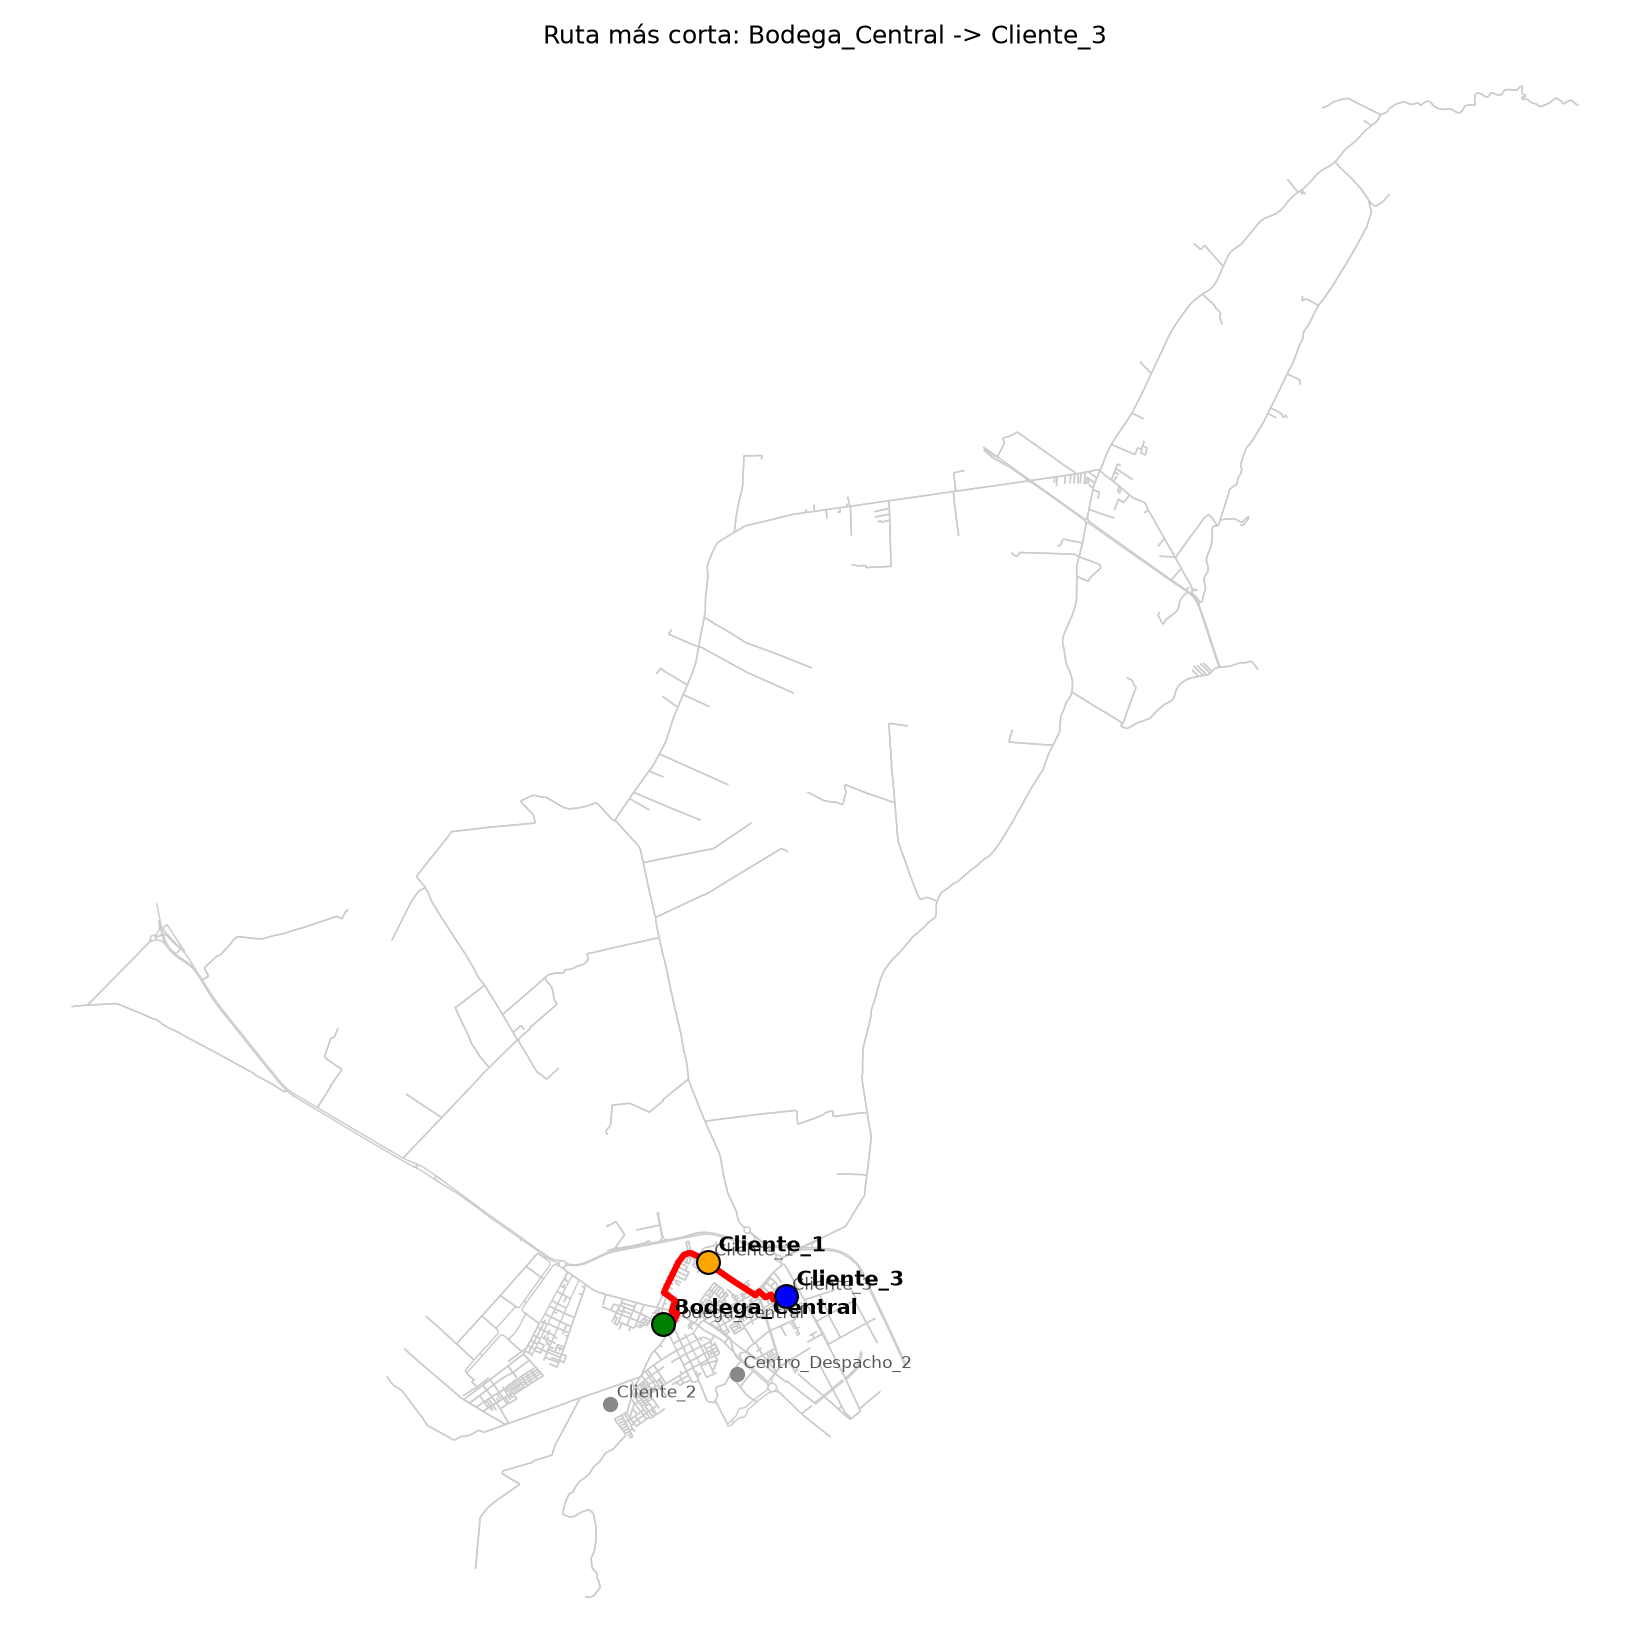
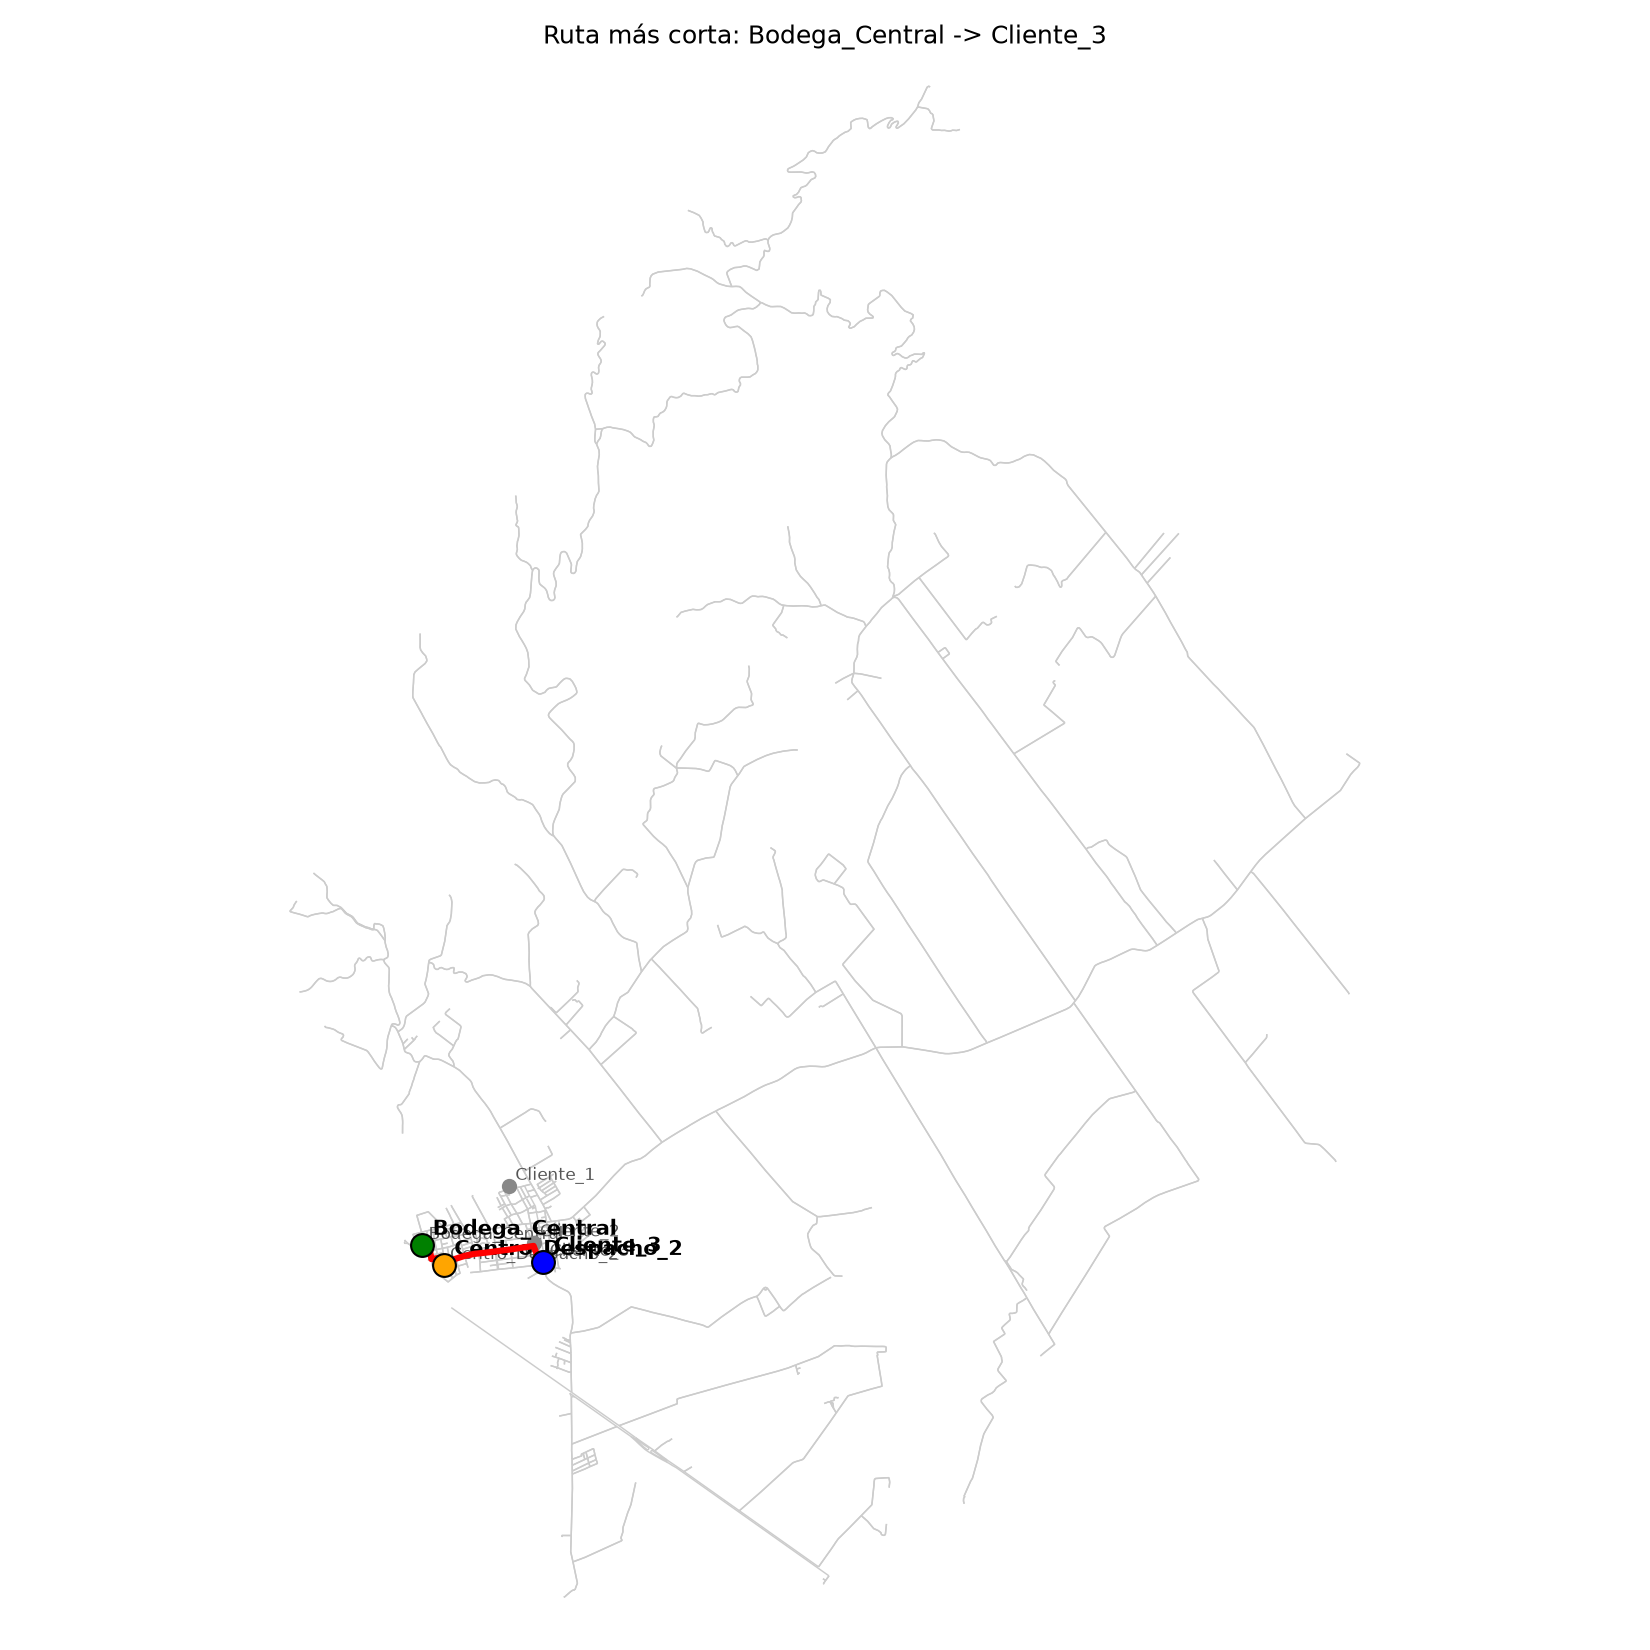
[ADD]AlmostShortestPath Ejercicio

diff --git a/AlmostShortestPath/AlmostShortestPath.java b/AlmostShortestPath/AlmostShortestPath.java
@@ -1,0 +1,159 @@
+package AlmostShortestPath;
+
+import java.util.*;
+import java.io.*;
+
+
+public class AlmostShortestPath {
+
+    // Representa una arista dirigida hacia "destino" con un "peso" determinado
+    static class Arista {
+        int destino;
+        int peso;
+
+        Arista(int destino, int peso) {
+            this.destino = destino;
+            this.peso = peso;
+        }
+    }
+
+    static final long INFINITO = Long.MAX_VALUE / 2;
+
+    public static void main(String[] args) throws IOException {
+        // Se usa StreamTokenizer para lectura rapida por consola (System.in),
+        // ya que puede haber varios casos de prueba y hasta 10^4 aristas por caso.
+        StreamTokenizer entrada = new StreamTokenizer(new BufferedReader(new InputStreamReader(System.in)));
+        StringBuilder salida = new StringBuilder();
+
+        while (true) {
+            entrada.nextToken();
+            int n = (int) entrada.nval;
+            entrada.nextToken();
+            int m = (int) entrada.nval;
+
+            // Fin de la entrada: linea con "0 0"
+            if (n == 0 && m == 0) {
+                break;
+            }
+
+            entrada.nextToken();
+            int s = (int) entrada.nval;
+            entrada.nextToken();
+            int d = (int) entrada.nval;
+
+            // Listas de adyacencia del grafo original y del grafo invertido
+            List<List<Arista>> grafo = new ArrayList<>();
+            List<List<Arista>> grafoInverso = new ArrayList<>();
+            for (int i = 0; i < n; i++) {
+                grafo.add(new ArrayList<>());
+                grafoInverso.add(new ArrayList<>());
+            }
+
+            // Guardamos tambien la lista de aristas por separado, para poder
+            // recorrerlas todas al momento de filtrar
+            int[] origenArista = new int[m];
+            int[] destinoArista = new int[m];
+            int[] pesoArista = new int[m];
+
+            for (int i = 0; i < m; i++) {
+                entrada.nextToken();
+                int u = (int) entrada.nval;
+                entrada.nextToken();
+                int v = (int) entrada.nval;
+                entrada.nextToken();
+                int p = (int) entrada.nval;
+
+                origenArista[i] = u;
+                destinoArista[i] = v;
+                pesoArista[i] = p;
+
+                grafo.get(u).add(new Arista(v, p));
+                grafoInverso.get(v).add(new Arista(u, p));
+            }
+
+            // Paso 1: distancia minima desde S hacia todos los nodos
+            long[] distDesdeS = dijkstra(grafo, s, n);
+
+            // Si D no es alcanzable desde S, ni siquiera existe el camino mas corto,
+            // por lo tanto tampoco puede existir el "almost shortest path"
+            if (distDesdeS[d] >= INFINITO) {
+                salida.append(-1).append("\n");
+                continue;
+            }
+
+            long distanciaMasCorta = distDesdeS[d];
+
+            // Paso 2: distancia minima desde todos los nodos hacia D
+            // (se logra corriendo Dijkstra desde D en el grafo invertido)
+            long[] distHaciaD = dijkstra(grafoInverso, d, n);
+
+            // Paso 3: construir el grafo filtrado, eliminando TODAS las aristas
+            // que pertenezcan a cualquier camino mas corto de S a D
+            List<List<Arista>> grafoFiltrado = new ArrayList<>();
+            for (int i = 0; i < n; i++) {
+                grafoFiltrado.add(new ArrayList<>());
+            }
+
+            for (int i = 0; i < m; i++) {
+                int u = origenArista[i];
+                int v = destinoArista[i];
+                int p = pesoArista[i];
+
+                boolean perteneceACaminoMasCorto =
+                        distDesdeS[u] < INFINITO &&
+                        distHaciaD[v] < INFINITO &&
+                        (distDesdeS[u] + p + distHaciaD[v] == distanciaMasCorta);
+
+                if (!perteneceACaminoMasCorto) {
+                    grafoFiltrado.get(u).add(new Arista(v, p));
+                }
+            }
+
+            // Paso 4: correr Dijkstra una vez mas, sobre el grafo ya filtrado
+            long[] distCasiMasCorto = dijkstra(grafoFiltrado, s, n);
+
+            if (distCasiMasCorto[d] >= INFINITO) {
+                salida.append(-1).append("\n");
+            } else {
+                salida.append(distCasiMasCorto[d]).append("\n");
+            }
+        }
+
+        System.out.print(salida);
+    }
+
+    /**
+     * Dijkstra clasico usando cola de prioridad.
+     * Devuelve un arreglo con la distancia minima desde "origen" hacia cada nodo del grafo.
+     */
+    static long[] dijkstra(List<List<Arista>> grafo, int origen, int n) {
+        long[] dist = new long[n];
+        Arrays.fill(dist, INFINITO);
+        dist[origen] = 0;
+
+        // Cada elemento de la cola es {nodo, distanciaActual}
+        PriorityQueue<long[]> cola = new PriorityQueue<>((a, b) -> Long.compare(a[1], b[1]));
+        cola.add(new long[]{origen, 0L});
+
+        boolean[] visitado = new boolean[n];
+
+        while (!cola.isEmpty()) {
+            long[] actual = cola.poll();
+            int nodo = (int) actual[0];
+
+            if (visitado[nodo]) {
+                continue;
+            }
+            visitado[nodo] = true;
+
+            for (Arista arista : grafo.get(nodo)) {
+                if (!visitado[arista.destino] && dist[nodo] + arista.peso < dist[arista.destino]) {
+                    dist[arista.destino] = dist[nodo] + arista.peso;
+                    cola.add(new long[]{arista.destino, dist[arista.destino]});
+                }
+            }
+        }
+
+        return dist;
+    }
+}

diff --git a/ProyectoFinal/Main.py b/ProyectoFinal/Main.py
@@ -18,7 +18,7 @@ from Dijkstra import Dijkstra
 
 def main():
     # 1) Crear el grafo con la red vial de Madrid, Cundinamarca
-    grafo = Grafo(lugar="Madrid, Cundinamarca, Colombia", network_type="drive")
+    grafo = Grafo(lugar="El Rosal, Cundinamarca, Colombia", network_type="drive")
 
     # 2) ---------------------------------------------------------------
     #    PUNTOS DE DESPACHO
@@ -27,13 +27,14 @@ def main():
     #    nombre inventado); si el nombre es una dirección real, puedes omitir
     #    lat/lon y se geocodifica automáticamente.
     # --------------------------------------------------------------------
-    grafo.agregarNodo("Bodega_Central", lat=4.7331, lon=-74.2666)     # centro de Madrid, Cund.
-    grafo.agregarNodo("Centro_Despacho_2", lat=4.7280, lon=-74.2590)
+    grafo.agregarNodo("Bodega_Central", lat=4.851453527058958, lon=-74.27001762359312)     # centro de Madrid, Cund.
+    grafo.agregarNodo("Centro_Despacho_2", lat=4.849896412944008, lon=-74.26834611458263)
 
     # PUNTOS DE ENTREGA
-    grafo.agregarNodo("Cliente_1", lat=4.7395, lon=-74.2620)
-    grafo.agregarNodo("Cliente_2", lat=4.7250, lon=-74.2720)
-    grafo.agregarNodo("Cliente_3", lat=4.7360, lon=-74.2540)
+
+    grafo.agregarNodo("Cliente_1", lat=4.856017820849208, lon=-74.26328633330014)
+    grafo.agregarNodo("Cliente_2", lat=4.851656132479957, lon=-74.26137714947366)
+    grafo.agregarNodo("Cliente_3", lat=4.850154356527056, lon=-74.26061807203888)
 
     # 3) ---------------------------------------------------------------
     #    ARISTAS